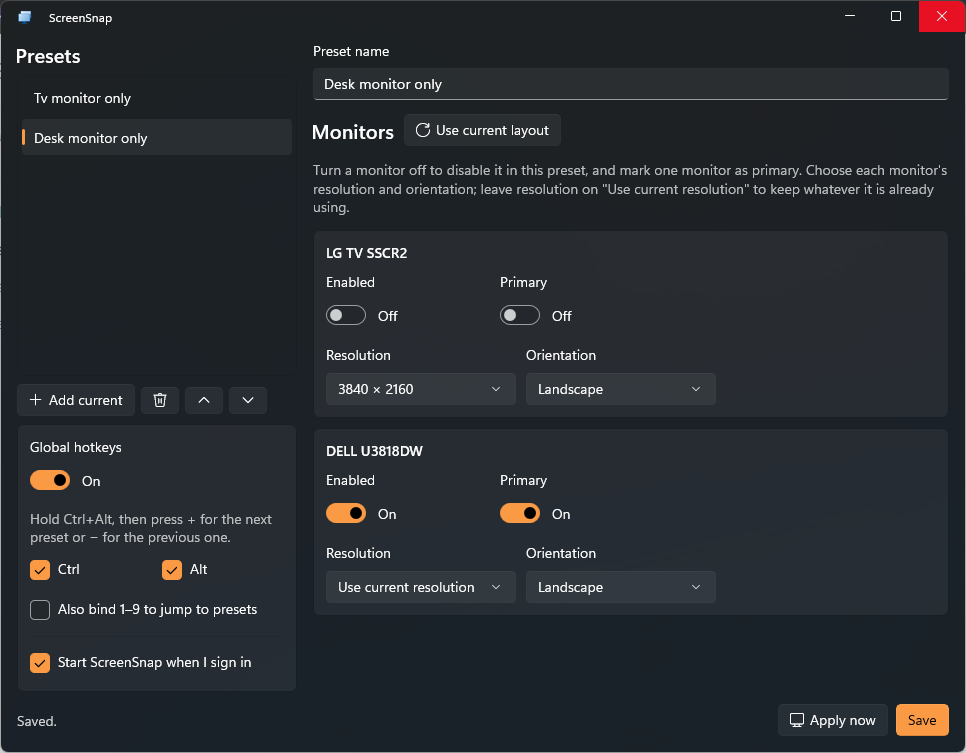
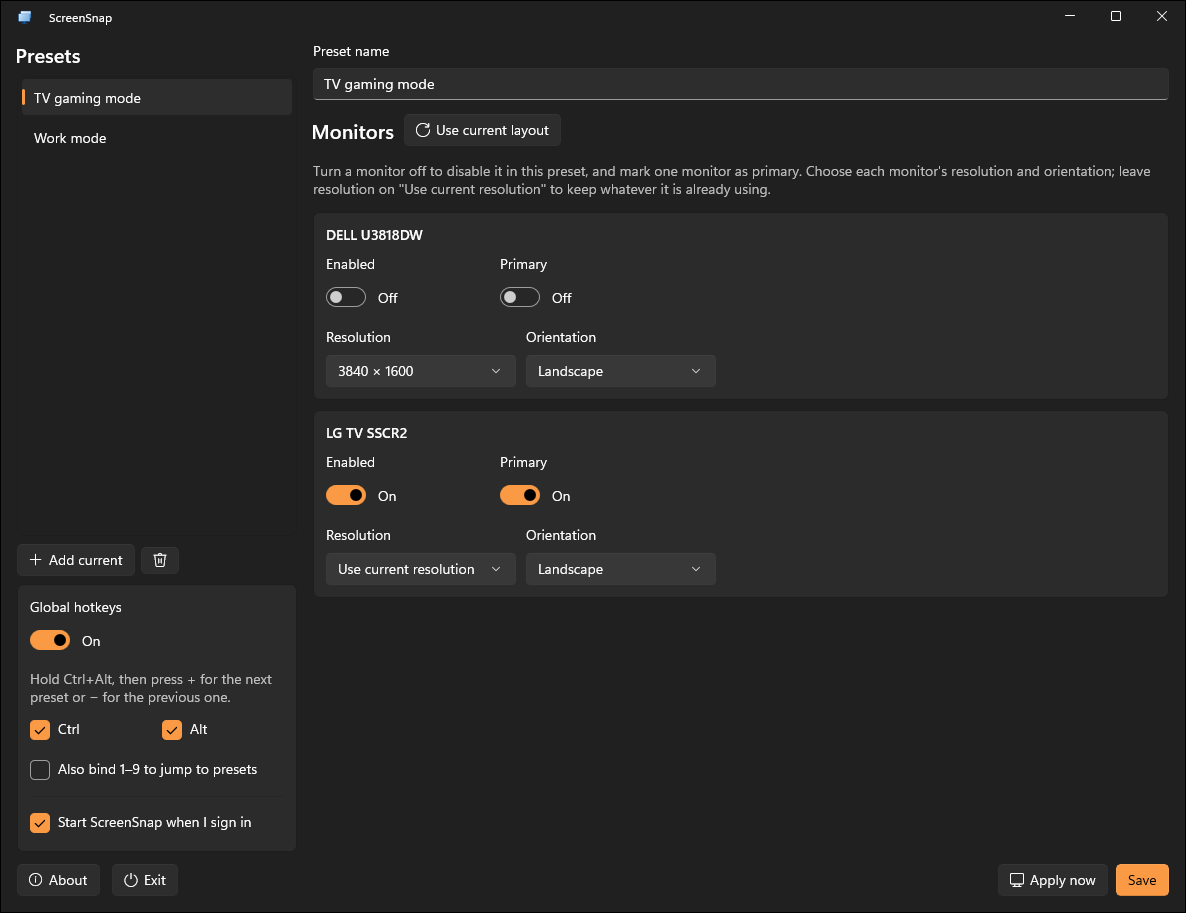
Update README screenshot and add MIT license
Refresh docs/screenshot.png to reflect the recent UI changes — Mica
title bar with the app icon, drag-reorderable preset list, the new
About/Exit buttons in the bottom action row, and the orange "Save"
accent button.

Add an MIT LICENSE file and replace the README's "no license chosen
yet" line with a pointer to it.

diff --git a/README.md b/README.md
@@ -149,4 +149,4 @@ future **MSIX** build can swap the `%LOCALAPPDATA%` storage for `ApplicationData
 
 ## License
 
-No license has been chosen yet.
+ScreenSnap is released under the [MIT License](LICENSE).